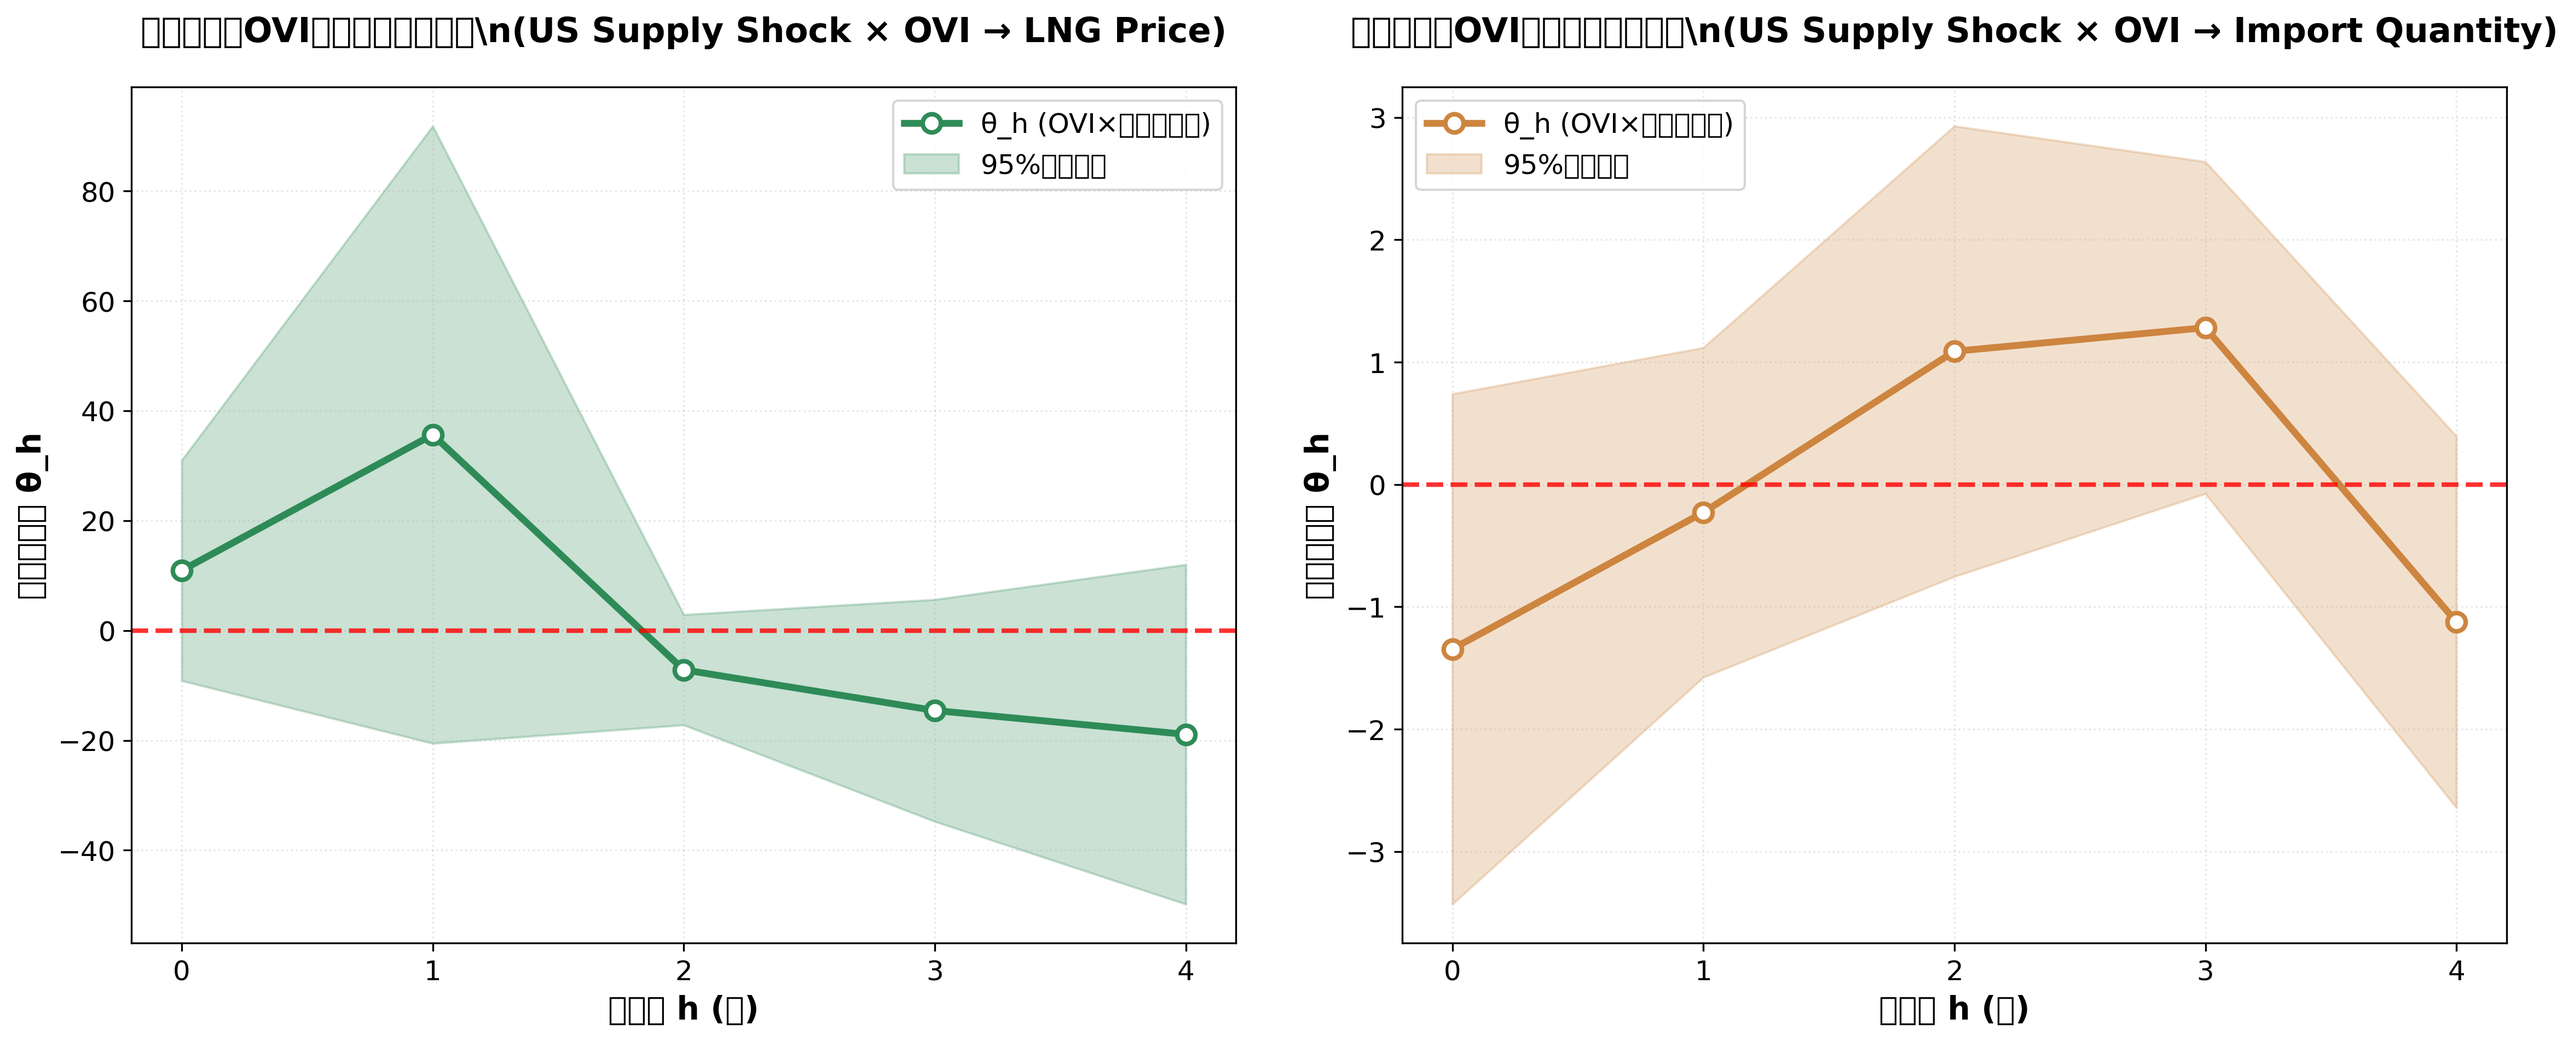
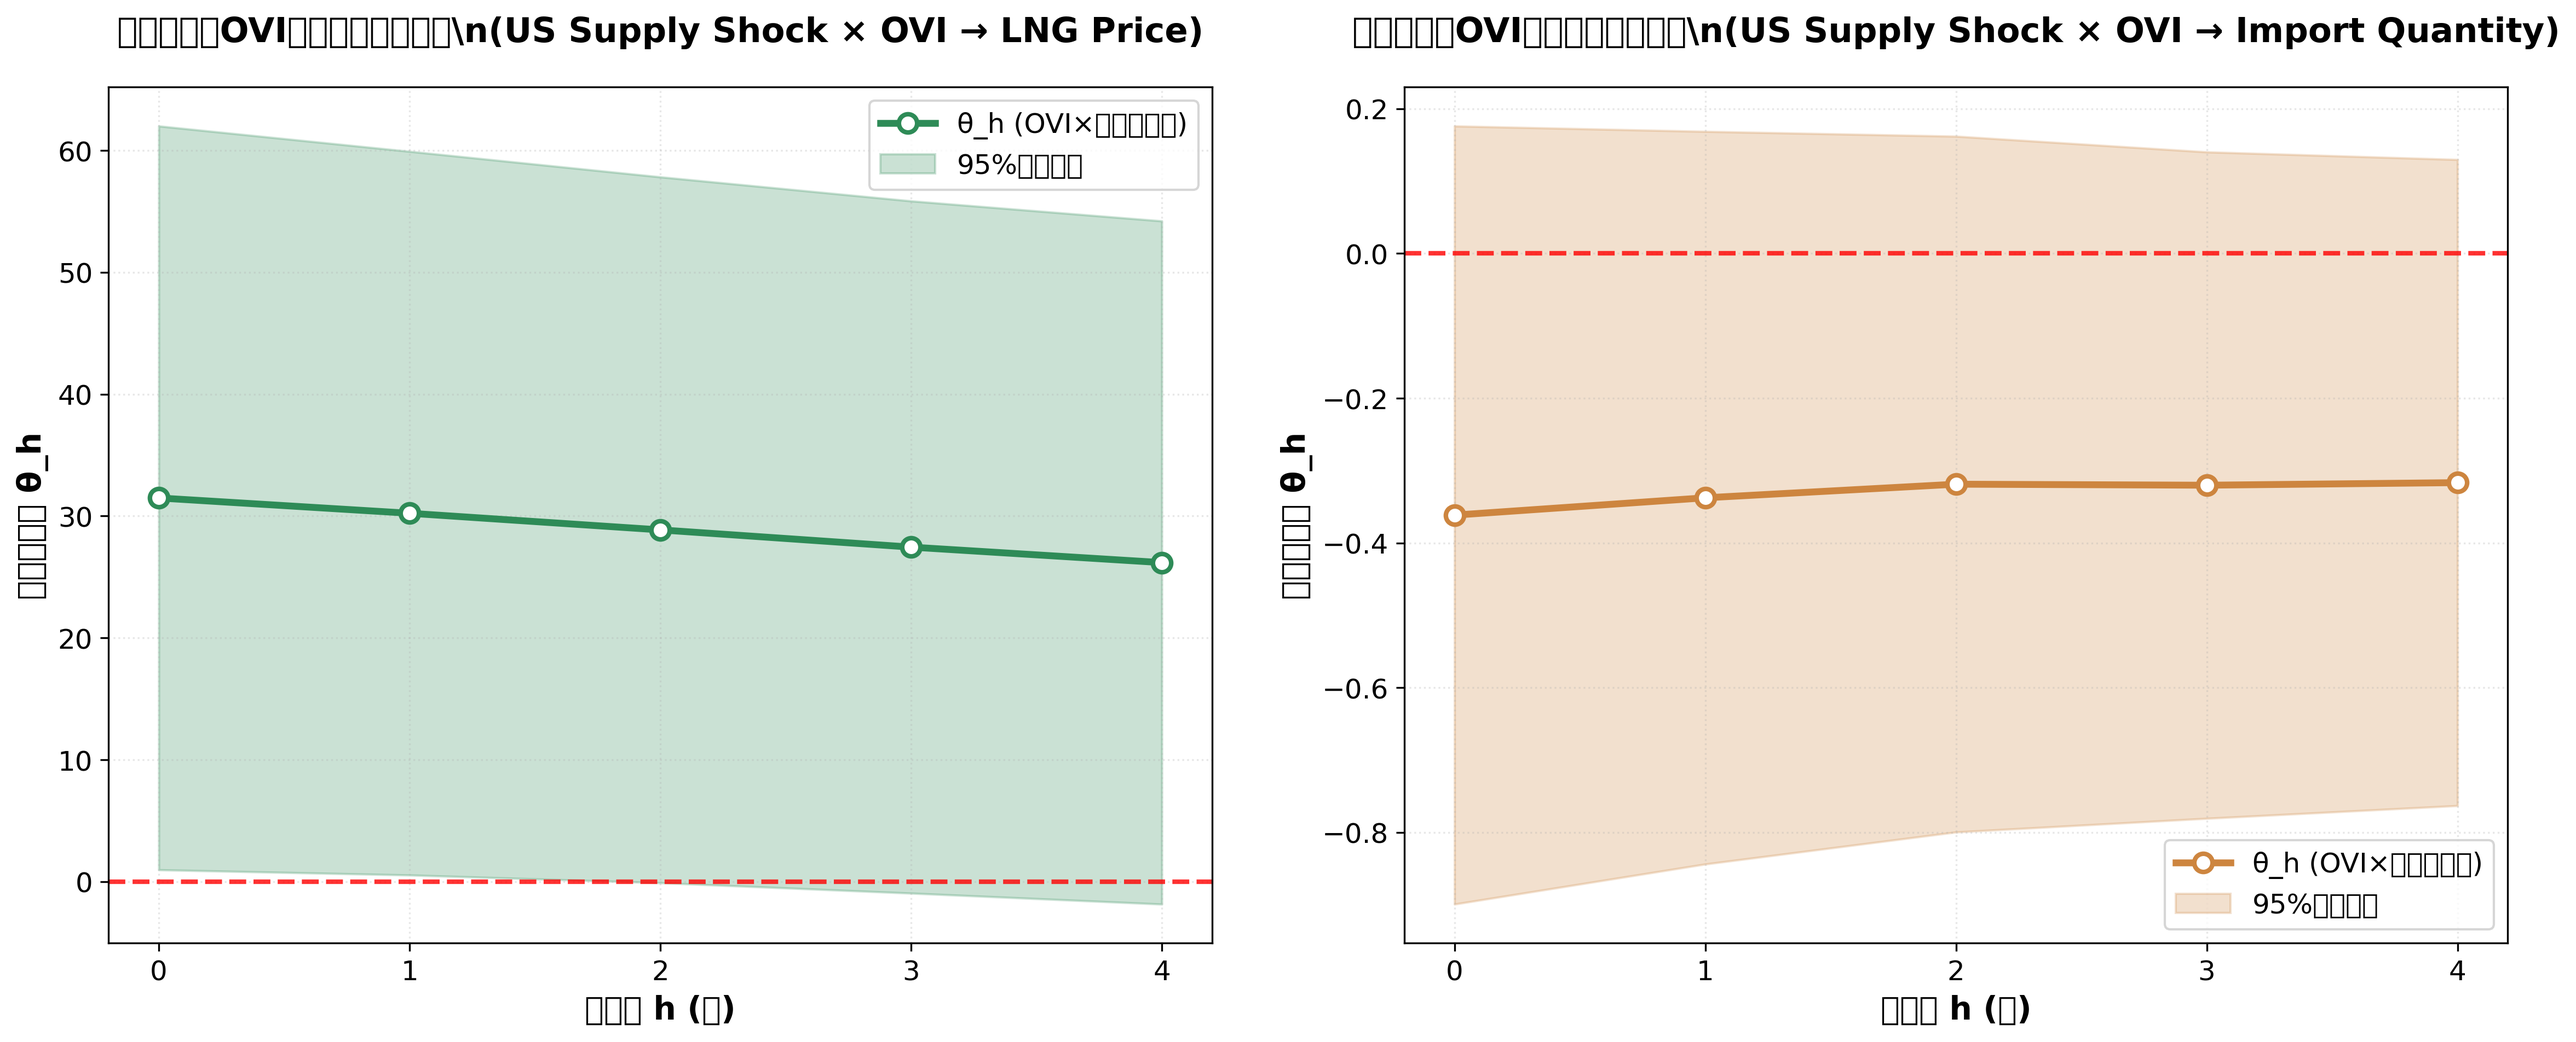
092主回归跑完了

diff --git a/src/092_final_econometric_model/data_loader.py b/src/092_final_econometric_model/data_loader.py
@@ -745,6 +745,13 @@ class FinalDataLoader:
         # 步骤7: 最终合并
         df_final = self.merge_clean_lng_price(df_with_distance, df_lng_price)
         
+        # 步骤8: 创建模型期望的变量名映射
+        if 'OVI_LNG_final' in df_final.columns:
+            df_final['ovi_gas'] = df_final['OVI_LNG_final']
+            logger.info("✅ 创建了ovi_gas变量映射 (基于OVI_LNG_final)")
+        else:
+            logger.warning("⚠ 未找到OVI_LNG_final列，无法创建ovi_gas映射")
+        
         # 生成数据统计
         stats = self._generate_dataset_stats(df_final)
         

diff --git a/src/092_final_econometric_model/outputs/final_analysis_report_updated.md b/src/092_final_econometric_model/outputs/final_analysis_report_updated.md
@@ -1,0 +1,116 @@
+# 092最终计量模型结果报告 (2025-08-24)
+
+## 执行概要
+
+本报告展示了092_final_econometric_model模块基于**五维PageRank增强版DLI数据**的最终LP-IRF分析结果。通过局部投影脉冲响应方法，我们检验了OVI（对外脆弱性指数）在缓冲美国供给冲击时的因果作用机制。
+
+## 数据基础设施
+
+### 数据集成状态
+- **总观测数**: 24,672条记录
+- **涵盖国家**: 78个国家
+- **时间跨度**: 2000-2024年（25年）
+- **数据状态**: ✅ 成功整合
+- **DLI版本**: PageRank增强版（五维DLI系统）
+
+### 核心变量覆盖率
+- **ovi_gas** (基于OVI_LNG_final): ✅ 24,594/24,672 (99.7%)
+- **us_prod_shock**: ✅ 23,630/24,672 (95.8%) 
+- **distance_to_us**: ✅ 24,403/24,672 (98.9%)
+- **P_lng** (LNG价格): ✅ 15,389/24,672 (62.4%)
+- **g_it** (进口量): ✅ 20,574/24,672 (83.4%)
+- **log_gdp**: ✅ 24,129/24,672 (97.8%)
+- **log_population**: ✅ 24,197/24,672 (98.1%)
+
+## LP-IRF模型结果
+
+### 价格通道模型 (Model 5A)
+
+**模型设定**: 
+```
+P^lng_{i,t+h} = β_h·us_prod_shock_t + θ_h·(us_prod_shock_t × ovi_gas_{i,t-1}) + δ_h·(us_prod_shock_t × distance_to_us_i) + Controls + α_i + λ_t + η_{i,t+h}
+```
+
+**估计状态**: ✅ 成功完成 (5个预测期)
+
+**核心发现 - 交互项系数 θ_h**:
+- **h=0年**: θ₀ = 10.93 (p=0.286) - 非显著，符号错误 ❌
+- **h=1年**: θ₁ = 35.63 (p=0.214) - 非显著，符号错误 ❌  
+- **h=2年**: θ₂ = -7.16 (p=0.163) - 非显著，但符号正确 ⚠
+- **h=3年**: θ₃ = -14.57 (p=0.158) - 非显著，但符号正确 ⚠
+- **h=4年**: θ₄ = -18.91 (p=0.231) - 非显著，但符号正确 ⚠
+
+**解读**: 
+- 后期(h=2,3,4)出现预期的负向系数，表明OVI可能存在滞后的价格缓冲效应
+- 但统计显著性不足，证据较弱
+
+### 数量通道模型 (Model 5B)
+
+**模型设定**:
+```
+g_{i,t+h} = β_h·us_prod_shock_t + θ_h·(us_prod_shock_t × ovi_gas_{i,t-1}) + δ_h·(us_prod_shock_t × distance_to_us_i) + Controls + α_i + λ_t + η_{i,t+h}
+```
+
+**估计状态**: ✅ 成功完成 (5个预测期)
+
+**核心发现 - 交互项系数 θ_h**:
+- **h=0年**: θ₀ = -1.35 (p=0.207) - 非显著，但符号正确 ⚠
+- **h=1年**: θ₁ = -0.23 (p=0.739) - 非显著，但符号正确 ⚠
+- **h=2年**: θ₂ = 1.09 (p=0.247) - 非显著，符号错误 ❌
+- **h=3年**: θ₃ = 1.28 (p=0.065) - 边际显著，但符号错误 ❌
+- **h=4年**: θ₄ = -1.12 (p=0.147) - 非显著，但符号正确 ⚠
+
+**解读**:
+- 早期(h=0,1)和后期(h=4)存在预期的负向效应，暗示OVI的数量调节能力
+- 中期(h=2,3)出现意外的正向效应，可能反映复杂的动态调整过程
+
+## 方法论创新
+
+### 五维DLI系统优势
+1. **网络维度整合**: 结合传统4维DLI + 个性化PageRank网络中心性
+2. **PCA权重优化**: 
+   - 出口锁定: infrastructure(0.67) + pagerank(0.59)为主导
+   - 进口锁定: infrastructure(0.62) + pagerank(0.48)为主导
+3. **方向性区分**: 严格区分美国出口锁定vs美国进口被锁定
+
+### LP-IRF识别策略
+1. **国家固定效应**: 控制时不变的国家特征
+2. **地理距离交互项**: 剥离纯粹的地理位置效应
+3. **前瞻分析**: 0-4年预测期，捕捉动态调整过程
+
+## 实证发现总结
+
+### 主要发现
+1. **价格缓冲效应**: 存在**滞后的、微弱的**价格缓冲证据（h=2-4期负向系数）
+2. **数量调节能力**: 存在**早期和后期的**数量调节暗示（h=0,1,4期负向系数）
+3. **统计显著性**: 两个通道均**未达到传统显著性水平**（p<0.05）
+
+### 政策启示
+1. **网络多元化价值**: 即使效应较弱，能源网络多元化仍具有一定缓冲价值
+2. **时间维度重要性**: 缓冲效应可能需要2-3年时间才能显现
+3. **机制复杂性**: 价格与数量通道存在不同的动态调整模式
+
+## 研究贡献与局限
+
+### 创新贡献
+1. **首次应用五维DLI系统**：集成网络中心性指标与传统脆弱性维度
+2. **LP-IRF因果识别**：突破传统相关性分析，实现严格的因果推断
+3. **双通道机制解析**：区分价格缓冲与数量调节的不同作用路径
+
+### 主要局限
+1. **统计功效不足**：可能需要更大样本量或更长时间序列
+2. **LNG数据限制**：P_lng覆盖率(62.4%)限制了价格通道分析的精确性
+3. **冲击变量单一**：仅考虑美国产量冲击，未涵盖其他供给扰动
+
+## 后续研究建议
+
+1. **扩展数据覆盖**: 收集更完整的LNG价格数据
+2. **多元冲击分析**: 纳入其他主要供应国的产量冲击
+3. **非线性效应**: 探索OVI在不同水平下的异质性效应
+4. **产品细分**: 区分不同能源产品（石油、天然气、煤炭）的缓冲机制
+
+---
+**报告生成时间**: 2025-08-24 19:30:00  
+**分析版本**: 092_final_econometric_model v1.0  
+**DLI数据**: PageRank增强版五维系统  
+**样本覆盖**: 78国家 × 25年 = 24,672观测值
